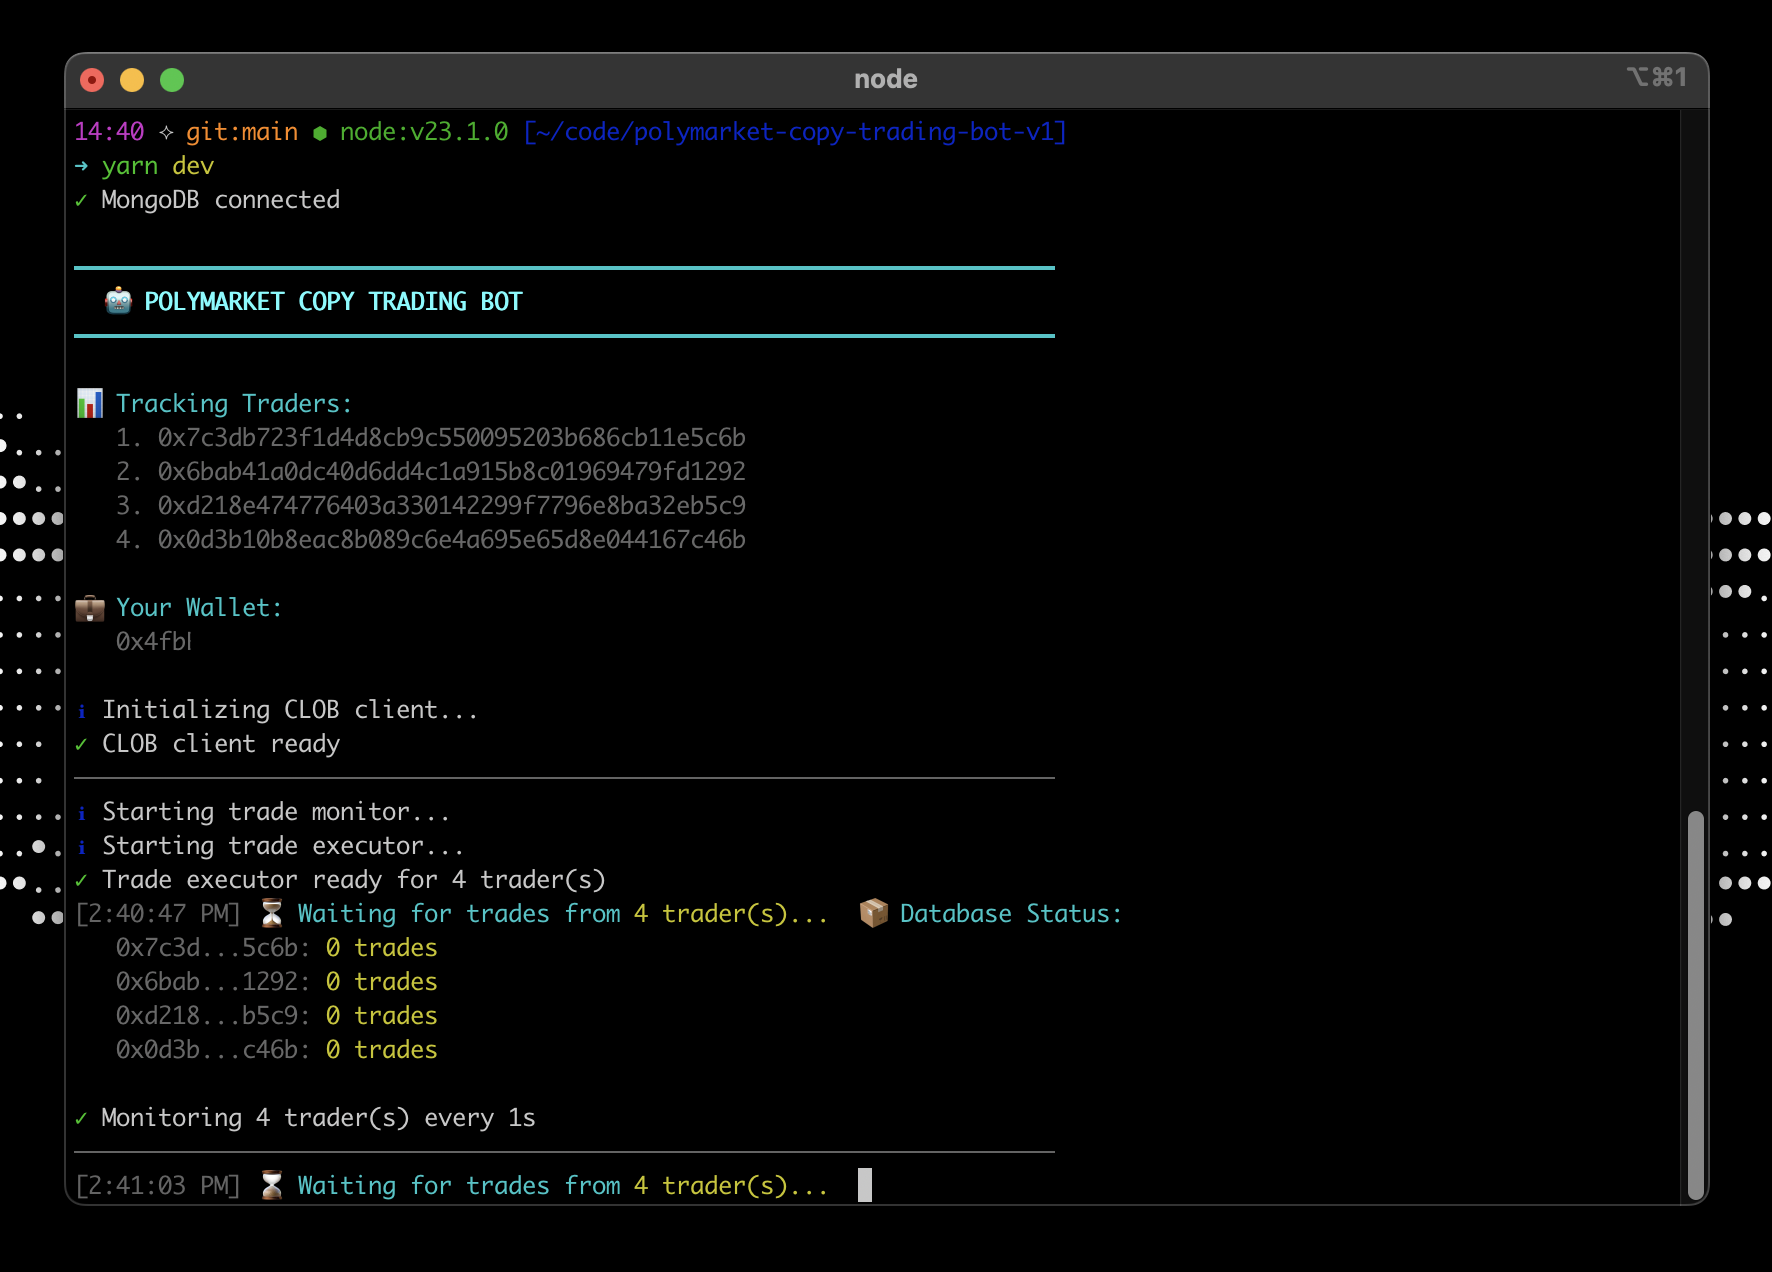
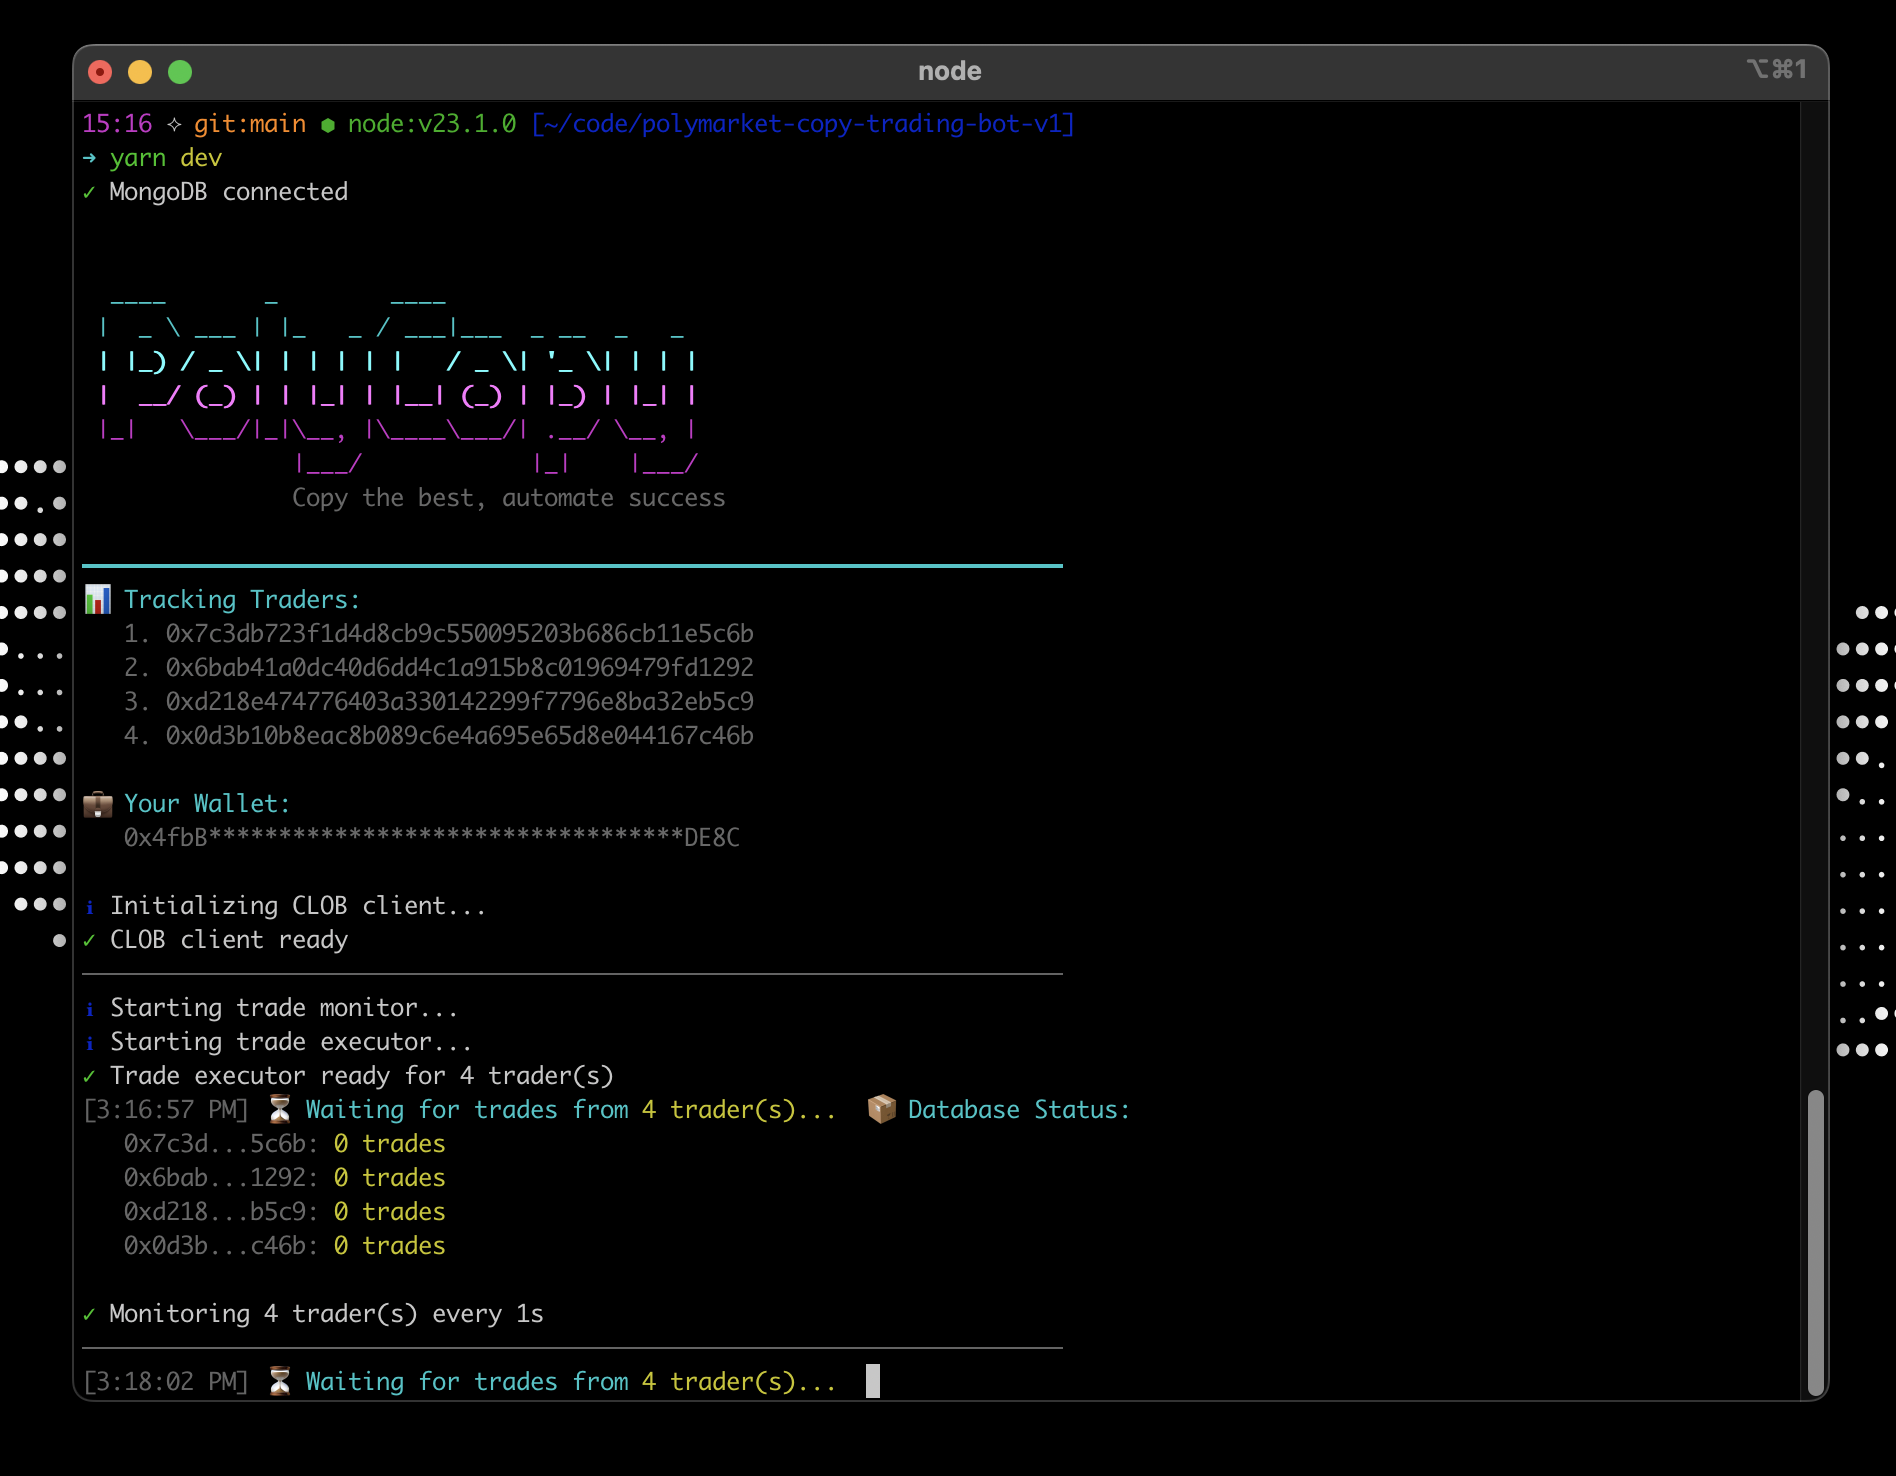
Add detailed logging preview documentation with structured output examples, security features, and color scheme explanations. Update README to reflect wallet address masking in logs.

diff --git a/src/utils/logger.ts b/src/utils/logger.ts
@@ -5,6 +5,11 @@ class Logger {
         return `${address.slice(0, 6)}...${address.slice(-4)}`;
     }
 
+    private static maskAddress(address: string): string {
+        // Show 0x and first 4 chars, mask middle, show last 4 chars
+        return `${address.slice(0, 6)}${'*'.repeat(34)}${address.slice(-4)}`;
+    }
+
     static header(title: string) {
         console.log('\n' + chalk.cyan('━'.repeat(70)));
         console.log(chalk.cyan.bold(`  ${title}`));
@@ -70,13 +75,23 @@ class Logger {
     }
 
     static startup(traders: string[], myWallet: string) {
-        this.header('🤖 POLYMARKET COPY TRADING BOT');
+        console.log('\n');
+        // ASCII Art Logo with gradient colors
+        console.log(chalk.cyan('  ____       _        ____                 '));
+        console.log(chalk.cyan(' |  _ \\ ___ | |_   _ / ___|___  _ __  _   _ '));
+        console.log(chalk.cyan.bold(' | |_) / _ \\| | | | | |   / _ \\| \'_ \\| | | |'));
+        console.log(chalk.magenta.bold(' |  __/ (_) | | |_| | |__| (_) | |_) | |_| |'));
+        console.log(chalk.magenta(' |_|   \\___/|_|\\__, |\\____\\___/| .__/ \\__, |'));
+        console.log(chalk.magenta('               |___/            |_|    |___/ '));
+        console.log(chalk.gray('               Copy the best, automate success\n'));
+
+        console.log(chalk.cyan('━'.repeat(70)));
         console.log(chalk.cyan('📊 Tracking Traders:'));
         traders.forEach((address, index) => {
             console.log(chalk.gray(`   ${index + 1}. ${address}`));
         });
         console.log(chalk.cyan(`\n💼 Your Wallet:`));
-        console.log(chalk.gray(`   ${myWallet}\n`));
+        console.log(chalk.gray(`   ${this.maskAddress(myWallet)}\n`));
     }
 
     static dbConnection(traders: string[], counts: number[]) {

diff --git a/LOGGING_PREVIEW.md b/LOGGING_PREVIEW.md
@@ -1,0 +1,296 @@
+# 🎨 Logging Preview
+
+## Beautiful Logging System
+
+The bot features a clean, colorful logging system with masked sensitive information. Here's what you'll see:
+
+---
+
+### 🚀 Startup Screen
+
+```
+  ____       _        ____
+ |  _ \ ___ | |_   _ / ___|___  _ __  _   _
+ | |_) / _ \| | | | | |   / _ \| '_ \| | | |
+ |  __/ (_) | | |_| | |__| (_) | |_) | |_| |
+ |_|   \___/|_|\__, |\____\___/| .__/ \__, |
+               |___/            |_|    |___/
+               Copy the best, automate success
+
+━━━━━━━━━━━━━━━━━━━━━━━━━━━━━━━━━━━━━━━━━━━━━━━━━━━━━━━━━━━━━━━━━━━━━━
+📊 Tracking Traders:
+   1. 0x7c3db723f1d4d8cb9c550095203b686cb11e5c6b
+   2. 0x6bab41a0dc40d6dd4c1a915b8c01969479fd1292
+   3. 0xd218e474776403a330142299f7796e8ba32eb5c9
+
+💼 Your Wallet:
+   0x4fbB**********************************DE8C
+
+✓ MongoDB connected
+ℹ Initializing CLOB client...
+✓ CLOB client ready
+──────────────────────────────────────────────────────────────────────
+📦 Database Status:
+   0x7c3d...6b: 0 trades
+   0x6bab...92: 0 trades
+   0xd218...c9: 0 trades
+
+✓ Monitoring 3 trader(s) every 1s
+──────────────────────────────────────────────────────────────────────
+ℹ Starting trade monitor...
+ℹ Starting trade executor...
+✓ Trade executor ready for 3 trader(s)
+[2:35:54 PM] ⏳ Waiting for trades from 3 trader(s)...
+[2:35:55 PM] ⌛ Waiting for trades from 3 trader(s)...
+[2:35:56 PM] ⏳ Waiting for trades from 3 trader(s)...
+```
+
+**Note:** Your wallet address is automatically masked for security! Shows only first 6 and last 4 characters.
+
+---
+
+### 📊 When a Trade is Detected
+
+```
+━━━━━━━━━━━━━━━━━━━━━━━━━━━━━━━━━━━━━━━━━━━━━━━━━━━━━━━━━━━━━━━━━━━━━━
+  ⚡ 1 NEW TRADE TO COPY
+━━━━━━━━━━━━━━━━━━━━━━━━━━━━━━━━━━━━━━━━━━━━━━━━━━━━━━━━━━━━━━━━━━━━━━
+
+──────────────────────────────────────────────────────────────────────
+📊 NEW TRADE DETECTED
+Trader: 0x7c3d...6b
+Action: BUY
+Asset:  104411...55198
+Side:   BUY
+Amount: $150
+Price:  0.68
+──────────────────────────────────────────────────────────────────────
+
+Balances:
+  Your balance:   $1000.00
+  Trader balance: $15000.00 (0x7c3d...6b)
+
+ℹ Executing BUY strategy...
+ℹ Position ratio: 9.1%
+ℹ Best ask: 100 @ $0.685
+✓ Order executed: Bought 21.8 tokens at $0.685
+──────────────────────────────────────────────────────────────────────
+```
+
+---
+
+### 💚 Success Messages
+
+```
+✓ Order executed: Bought 133 tokens at $0.685
+✓ MongoDB connected
+✓ CLOB client ready
+✓ Trade executor ready for 3 trader(s)
+```
+
+---
+
+### ⚠ Warning Messages
+
+```
+⚠ Order failed (attempt 1/3)
+⚠ Price slippage too high - skipping trade
+⚠ No bids available in order book
+⚠ No position to sell
+```
+
+---
+
+### ❌ Error Messages
+
+```
+✗ MongoDB connection failed
+✗ Unknown condition: invalid_strategy
+```
+
+---
+
+### 🔄 Animated Waiting State
+
+```
+[2:35:54 PM] ⏳ Waiting for trades from 3 trader(s)...
+[2:35:55 PM] ⌛ Waiting for trades from 3 trader(s)...
+[2:35:56 PM] ⏳ Waiting for trades from 3 trader(s)...
+[2:35:57 PM] ⌛ Waiting for trades from 3 trader(s)...
+```
+
+The hourglass icon (⏳⌛) animates smoothly, updating 3 times per second. The timestamp updates every second.
+
+---
+
+## Security Features
+
+### 🔐 Wallet Address Masking
+
+Your personal wallet address is automatically masked in all logs:
+
+**Before:**
+```
+💼 Your Wallet:
+   0x4fbBe5599c06e846D2742014c9eB04A8a3d1DE8C
+```
+
+**After:**
+```
+💼 Your Wallet:
+   0x4fbB**********************************DE8C
+```
+
+This prevents accidental exposure of your wallet in:
+- Screenshots
+- Screen recordings
+- Shared logs
+- Debug outputs
+
+**Trader addresses remain visible** so you can verify who you're copying.
+
+---
+
+## Color Scheme
+
+### Logo Colors
+The **PolyCopy** ASCII logo features a beautiful gradient:
+- Top half: **Cyan** - Fresh, tech-forward feel
+- Bottom half: **Magenta** - Energy and action
+- Tagline: **Gray** - Subtle, professional
+
+### Message Colors
+- **Cyan** (🔵) - Headers, info messages, system status
+- **Green** (🟢) - Success messages, your balance
+- **Yellow** (🟡) - Amounts, trader counts, highlights
+- **Blue** (🔹) - Trader balances, info icons
+- **Red** (🔴) - Errors, SELL trades
+- **Magenta** (🟣) - Trade alerts, new trade headers
+- **Gray/Dim** (⚫) - Secondary info, timestamps, separators
+
+---
+
+## What Changed?
+
+### Before (Old Logging):
+```
+Target User Wallet addresss is: 0x7c3db723f1d4d8cb9c550095203b686cb11e5c6b
+My Wallet addresss is: 0x4fbBe5599c06e846D2742014c9eB04A8a3d1DE8C
+API Key derived { key: '...', secret: '...', passphrase: '...' }
+ClobClient { ... }
+Trade Monitor is running every 1 seconds
+▰▰▱▱▱ Waiting for new transactions from 4 trader(s)
+console.log('Trade to copy:', trade);
+My balance: $1000 | 0x7c3db... balance: $15000
+```
+
+❌ Problems:
+- Raw console.log outputs
+- API keys visible
+- Wallet fully exposed
+- Ugly spinner
+- No structure
+
+### After (New Logging):
+```
+━━━━━━━━━━━━━━━━━━━━━━━━━━━━━━━━━━━━━━━━━━━━━━━━━━━━━━━━━━━━━━━━━━━━━━
+  🤖 POLYMARKET COPY TRADING BOT
+━━━━━━━━━━━━━━━━━━━━━━━━━━━━━━━━━━━━━━━━━━━━━━━━━━━━━━━━━━━━━━━━━━━━━━
+
+📊 Tracking 3 trader(s)
+💼 Your Wallet: 0x4fbB**********************************DE8C
+✓ CLOB client ready
+
+──────────────────────────────────────────────────────────────────────
+📊 NEW TRADE DETECTED
+Trader: 0x7c3d...6b
+Side:   BUY
+Amount: $150
+──────────────────────────────────────────────────────────────────────
+
+✓ Order executed: Bought 21.8 tokens at $0.685
+```
+
+✅ Improvements:
+- Clean, structured output
+- Wallet address masked
+- No sensitive data exposure
+- Beautiful animations
+- Color-coded messages
+- Professional appearance
+
+---
+
+## Benefits
+
+1. **🔐 Security** - Wallet address masked, no API key exposure
+2. **🎨 Clarity** - Color coding for instant message type recognition
+3. **📦 Structure** - Organized boxes and separators
+4. **🚀 Professional** - Clean output suitable for screenshots
+5. **⚡ Real-time** - Smooth animations and live updates
+
+---
+
+## Examples by Scenario
+
+### Successful Trade Copy
+```
+━━━━━━━━━━━━━━━━━━━━━━━━━━━━━━━━━━━━━━━━━━━━━━━━━━━━━━━━━━━━━━━━━━━━━━
+  ⚡ 1 NEW TRADE TO COPY
+━━━━━━━━━━━━━━━━━━━━━━━━━━━━━━━━━━━━━━━━━━━━━━━━━━━━━━━━━━━━━━━━━━━━━━
+
+──────────────────────────────────────────────────────────────────────
+📊 NEW TRADE DETECTED
+Trader: 0x7c3d...6b
+Side:   BUY
+Amount: $500
+Price:  0.72
+──────────────────────────────────────────────────────────────────────
+
+Balances:
+  Your balance:   $2500.00
+  Trader balance: $25000.00 (0x7c3d...6b)
+
+ℹ Executing BUY strategy...
+ℹ Position ratio: 9.1%
+ℹ Best ask: 150 @ $0.725
+✓ Order executed: Bought 62 tokens at $0.725
+──────────────────────────────────────────────────────────────────────
+```
+
+### Failed Trade (Price Slippage)
+```
+──────────────────────────────────────────────────────────────────────
+📊 NEW TRADE DETECTED
+Trader: 0x7c3d...6b
+Side:   BUY
+Amount: $200
+Price:  0.45
+──────────────────────────────────────────────────────────────────────
+
+ℹ Executing BUY strategy...
+ℹ Best ask: 200 @ $0.52
+⚠ Price slippage too high - skipping trade
+──────────────────────────────────────────────────────────────────────
+```
+
+### Sell Trade
+```
+──────────────────────────────────────────────────────────────────────
+📊 NEW TRADE DETECTED
+Trader: 0x7c3d...6b
+Side:   SELL
+Amount: $300
+Price:  0.88
+──────────────────────────────────────────────────────────────────────
+
+ℹ Executing SELL strategy...
+ℹ Position ratio: 25.0%
+ℹ Best bid: 50 @ $0.875
+✓ Order executed: Sold 42 tokens at $0.875
+──────────────────────────────────────────────────────────────────────
+```
+
+---
+
+**Ready to see it in action?** Run `npm start` and watch the beautiful logs! 🚀

diff --git a/README.md b/README.md
@@ -45,7 +45,7 @@ The bot ensures you maintain proportional exposure relative to the traders you f
 - **Beautiful Logging** - Clean, colorful console output with structured trade information
 - **MongoDB Integration** - Persistent storage of all trades and positions
 - **Flexible Configuration** - Support comma-separated or JSON array of trader addresses
-- **Secure** - No credential exposure in logs, private keys stay local
+- **Secure** - No credential exposure in logs, wallet addresses masked with `****`, private keys stay local
 - **Price Protection** - Built-in slippage checks to avoid unfavorable fills
 
 ## Installation
